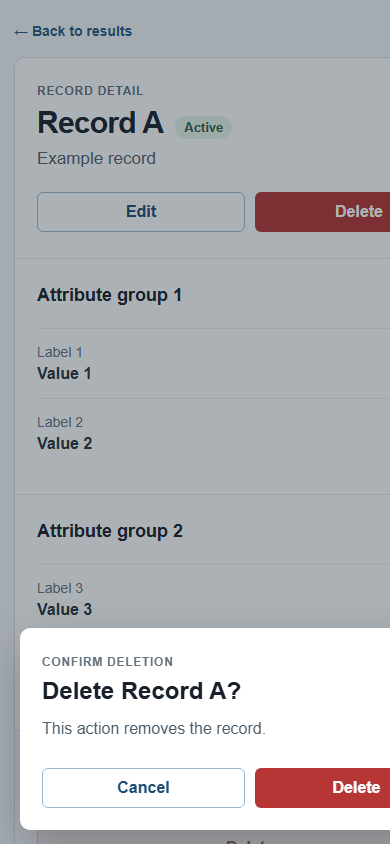
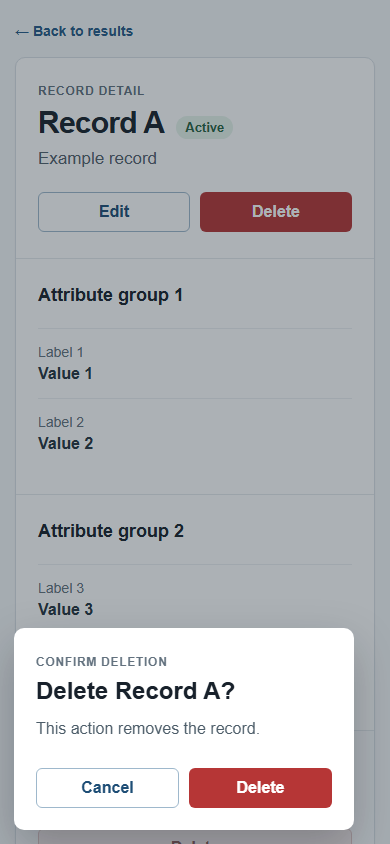
fix: keep record delete actions visible

diff --git a/docs/poc/experiments/008-record-detail-delete/attempt-1/implementation/initial.css b/docs/poc/experiments/008-record-detail-delete/attempt-1/implementation/initial.css
@@ -27,25 +27,24 @@ dd { margin: 0; color: #273541; font-weight: 650; }
 .unavailable .eyebrow { color: #7a5a1c; }
 .unavailable p:last-child { margin: 0; color: #52616d; }
 .disabled-danger { color: #8f5e5e; border-color: #e2c7c7; background: #f9eeee; opacity: 1; }
-.scrim { position: fixed; inset: 0; display: grid; place-items: center; padding: 24px; background: #1a27335c; }
+.scrim { position: fixed; inset: 0; display: grid; place-items: start end; padding: 104px max(32px, calc((100vw - 1120px) / 2)) 24px; background: #1a27335c; }
 .dialog { width: min(460px, 100%); padding: 31px 32px 28px; border-radius: 10px; background: #fff; box-shadow: 0 18px 45px #10182040; }
 .dialog h2 { margin-bottom: 12px; font-size: 24px; }
 .dialog p:not(.eyebrow) { margin-bottom: 27px; color: #4d5d69; line-height: 1.5; }
 .dialog-actions { justify-content: flex-end; }
 @media (max-width: 620px) {
-  .page { width: min(calc(100% - 28px), 520px); padding: 22px 0 48px; }
+  .page { width: min(calc(100% - 28px), 360px); margin-left: 15px; margin-right: auto; padding: 22px 0 48px; }
   .back { margin-bottom: 18px; font-size: 14px; }
   .record-header { display: block; padding: 26px 22px; }
   h1 { font-size: 30px; }
   .actions { margin-top: 23px; }
-  .actions button { flex: 1; }
+  .actions button, .dialog-actions button { flex: 1; min-width: 0; }
   .attribute-groups { grid-template-columns: 1fr; }
   .attribute-group { padding: 26px 22px; }
   .attribute-group + .attribute-group { border-top: 1px solid #e4e9ed; border-left: 0; }
   dl div { grid-template-columns: 1fr; gap: 5px; }
   .unavailable { display: block; padding: 22px; }
   .disabled-danger { width: 100%; margin-top: 17px; }
-  .scrim { align-items: end; padding: 14px; }
-  .dialog { padding: 27px 22px 22px; }
-  .dialog-actions button { flex: 1; }
+  .scrim { place-items: end start; padding: 14px; }
+  .dialog { width: min(340px, calc(100% - 28px)); padding: 27px 22px 22px; }
 }

diff --git a/docs/poc/experiments/008-record-detail-delete/attempt-1/implementation/implementation-report.md b/docs/poc/experiments/008-record-detail-delete/attempt-1/implementation/implementation-report.md
@@ -25,3 +25,7 @@ The static medium-impact confirmation is shown open so the separate state is vis
 - `narrow.png`: requested 390×844 local-Chrome capture.
 
 Image dimensions and nonblank output are verified after capture. Static boundary checks, source-boundary checks, `git diff --check`, and the commit result are recorded in the durable YAML report.
+
+## Correction
+
+The wide confirmation is positioned at the page’s upper right so the deletion-unavailable reason and disabled example remain readable. The narrow page is capped at 360 CSS px and left-aligned; its confirmation is left-aligned and capped at 340 CSS px. This reserves a right-side safety margin for both action pairs in the 390×844 capture despite the local browser’s effective layout width.
